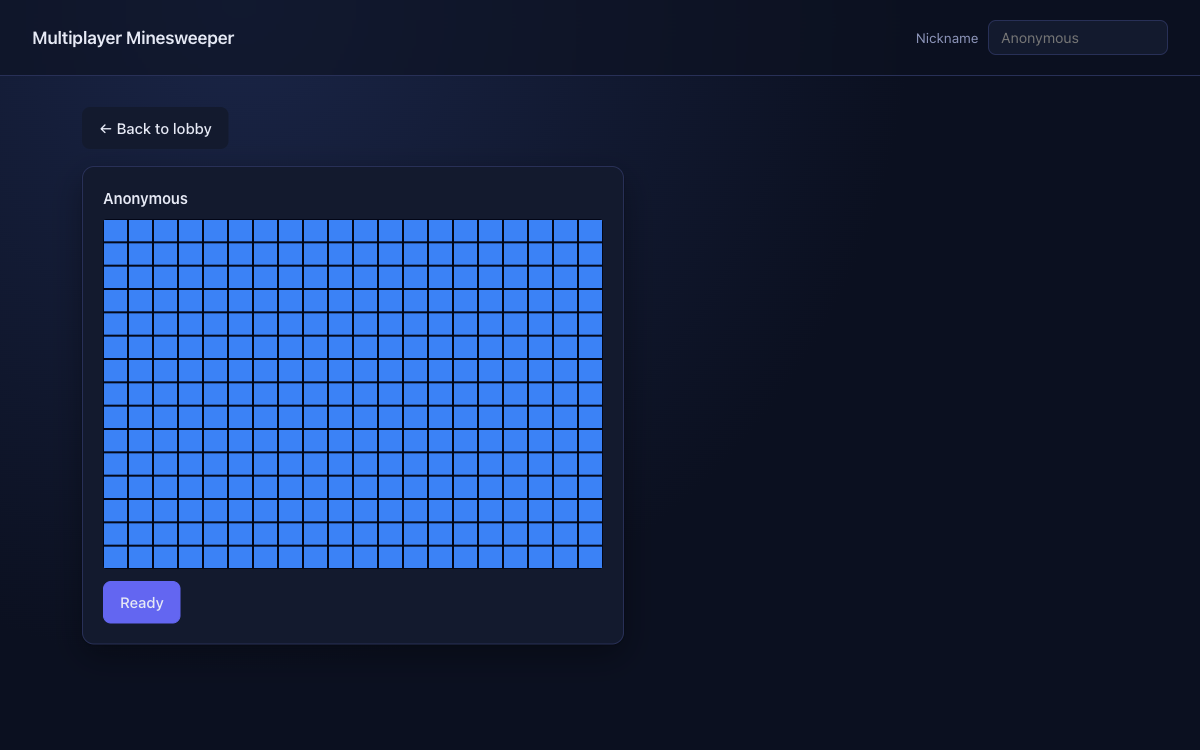
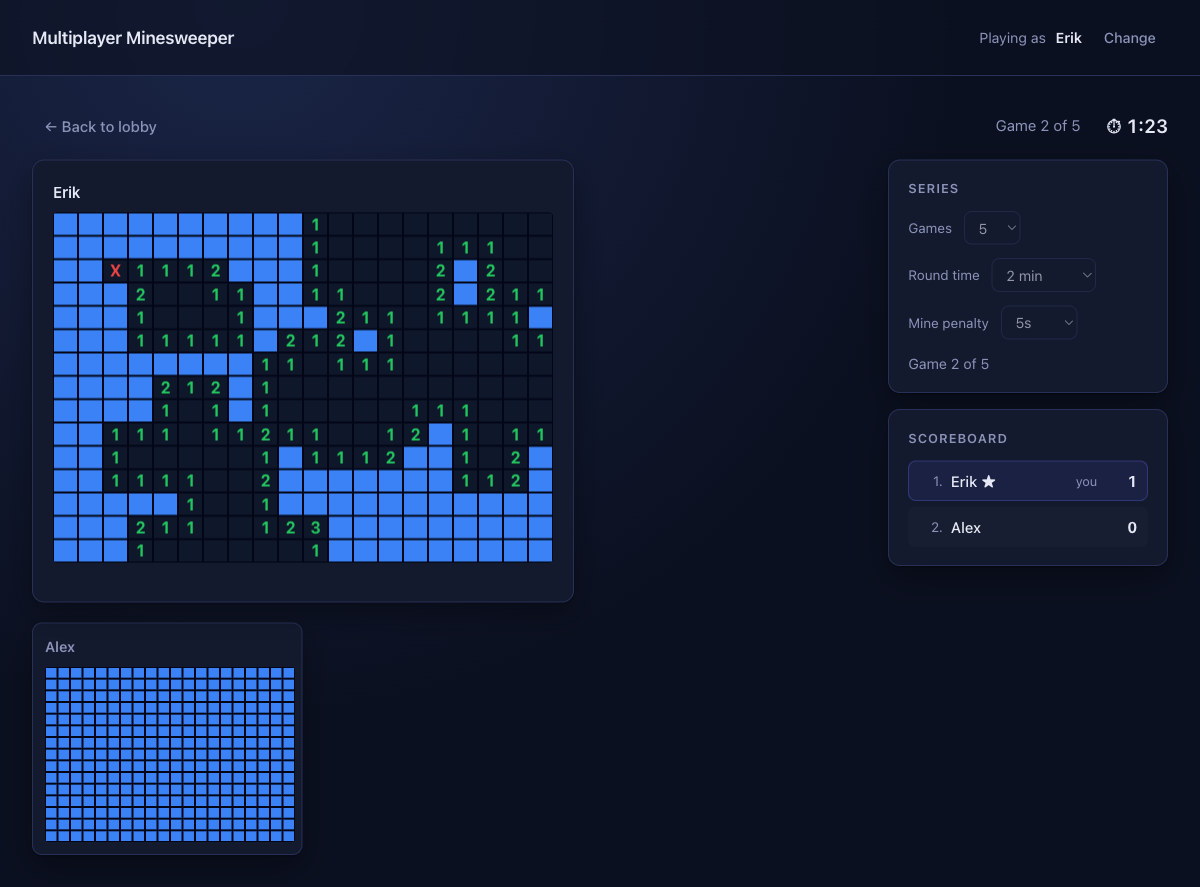
Refresh Minesweeper and Sound Visualizer screenshots, force dark mode

diff --git a/styles.css b/styles.css
@@ -1,23 +1,12 @@
 :root {
-  --bg: #fafaf7;
-  --fg: #1a1a1a;
-  --muted: #5a5a5a;
-  --accent: #2b5fff;
-  --card-bg: #ffffff;
-  --card-border: #ececec;
-  --shadow: 0 1px 2px rgba(0, 0, 0, 0.04), 0 6px 24px rgba(0, 0, 0, 0.04);
-}
-
-@media (prefers-color-scheme: dark) {
-  :root {
-    --bg: #0f1115;
-    --fg: #f3f3f3;
-    --muted: #a0a4ab;
-    --accent: #7aa2ff;
-    --card-bg: #171a21;
-    --card-border: #232732;
-    --shadow: 0 1px 2px rgba(0, 0, 0, 0.3), 0 6px 24px rgba(0, 0, 0, 0.25);
-  }
+  color-scheme: dark;
+  --bg: #0f1115;
+  --fg: #f3f3f3;
+  --muted: #a0a4ab;
+  --accent: #7aa2ff;
+  --card-bg: #171a21;
+  --card-border: #232732;
+  --shadow: 0 1px 2px rgba(0, 0, 0, 0.3), 0 6px 24px rgba(0, 0, 0, 0.25);
 }
 
 * {
